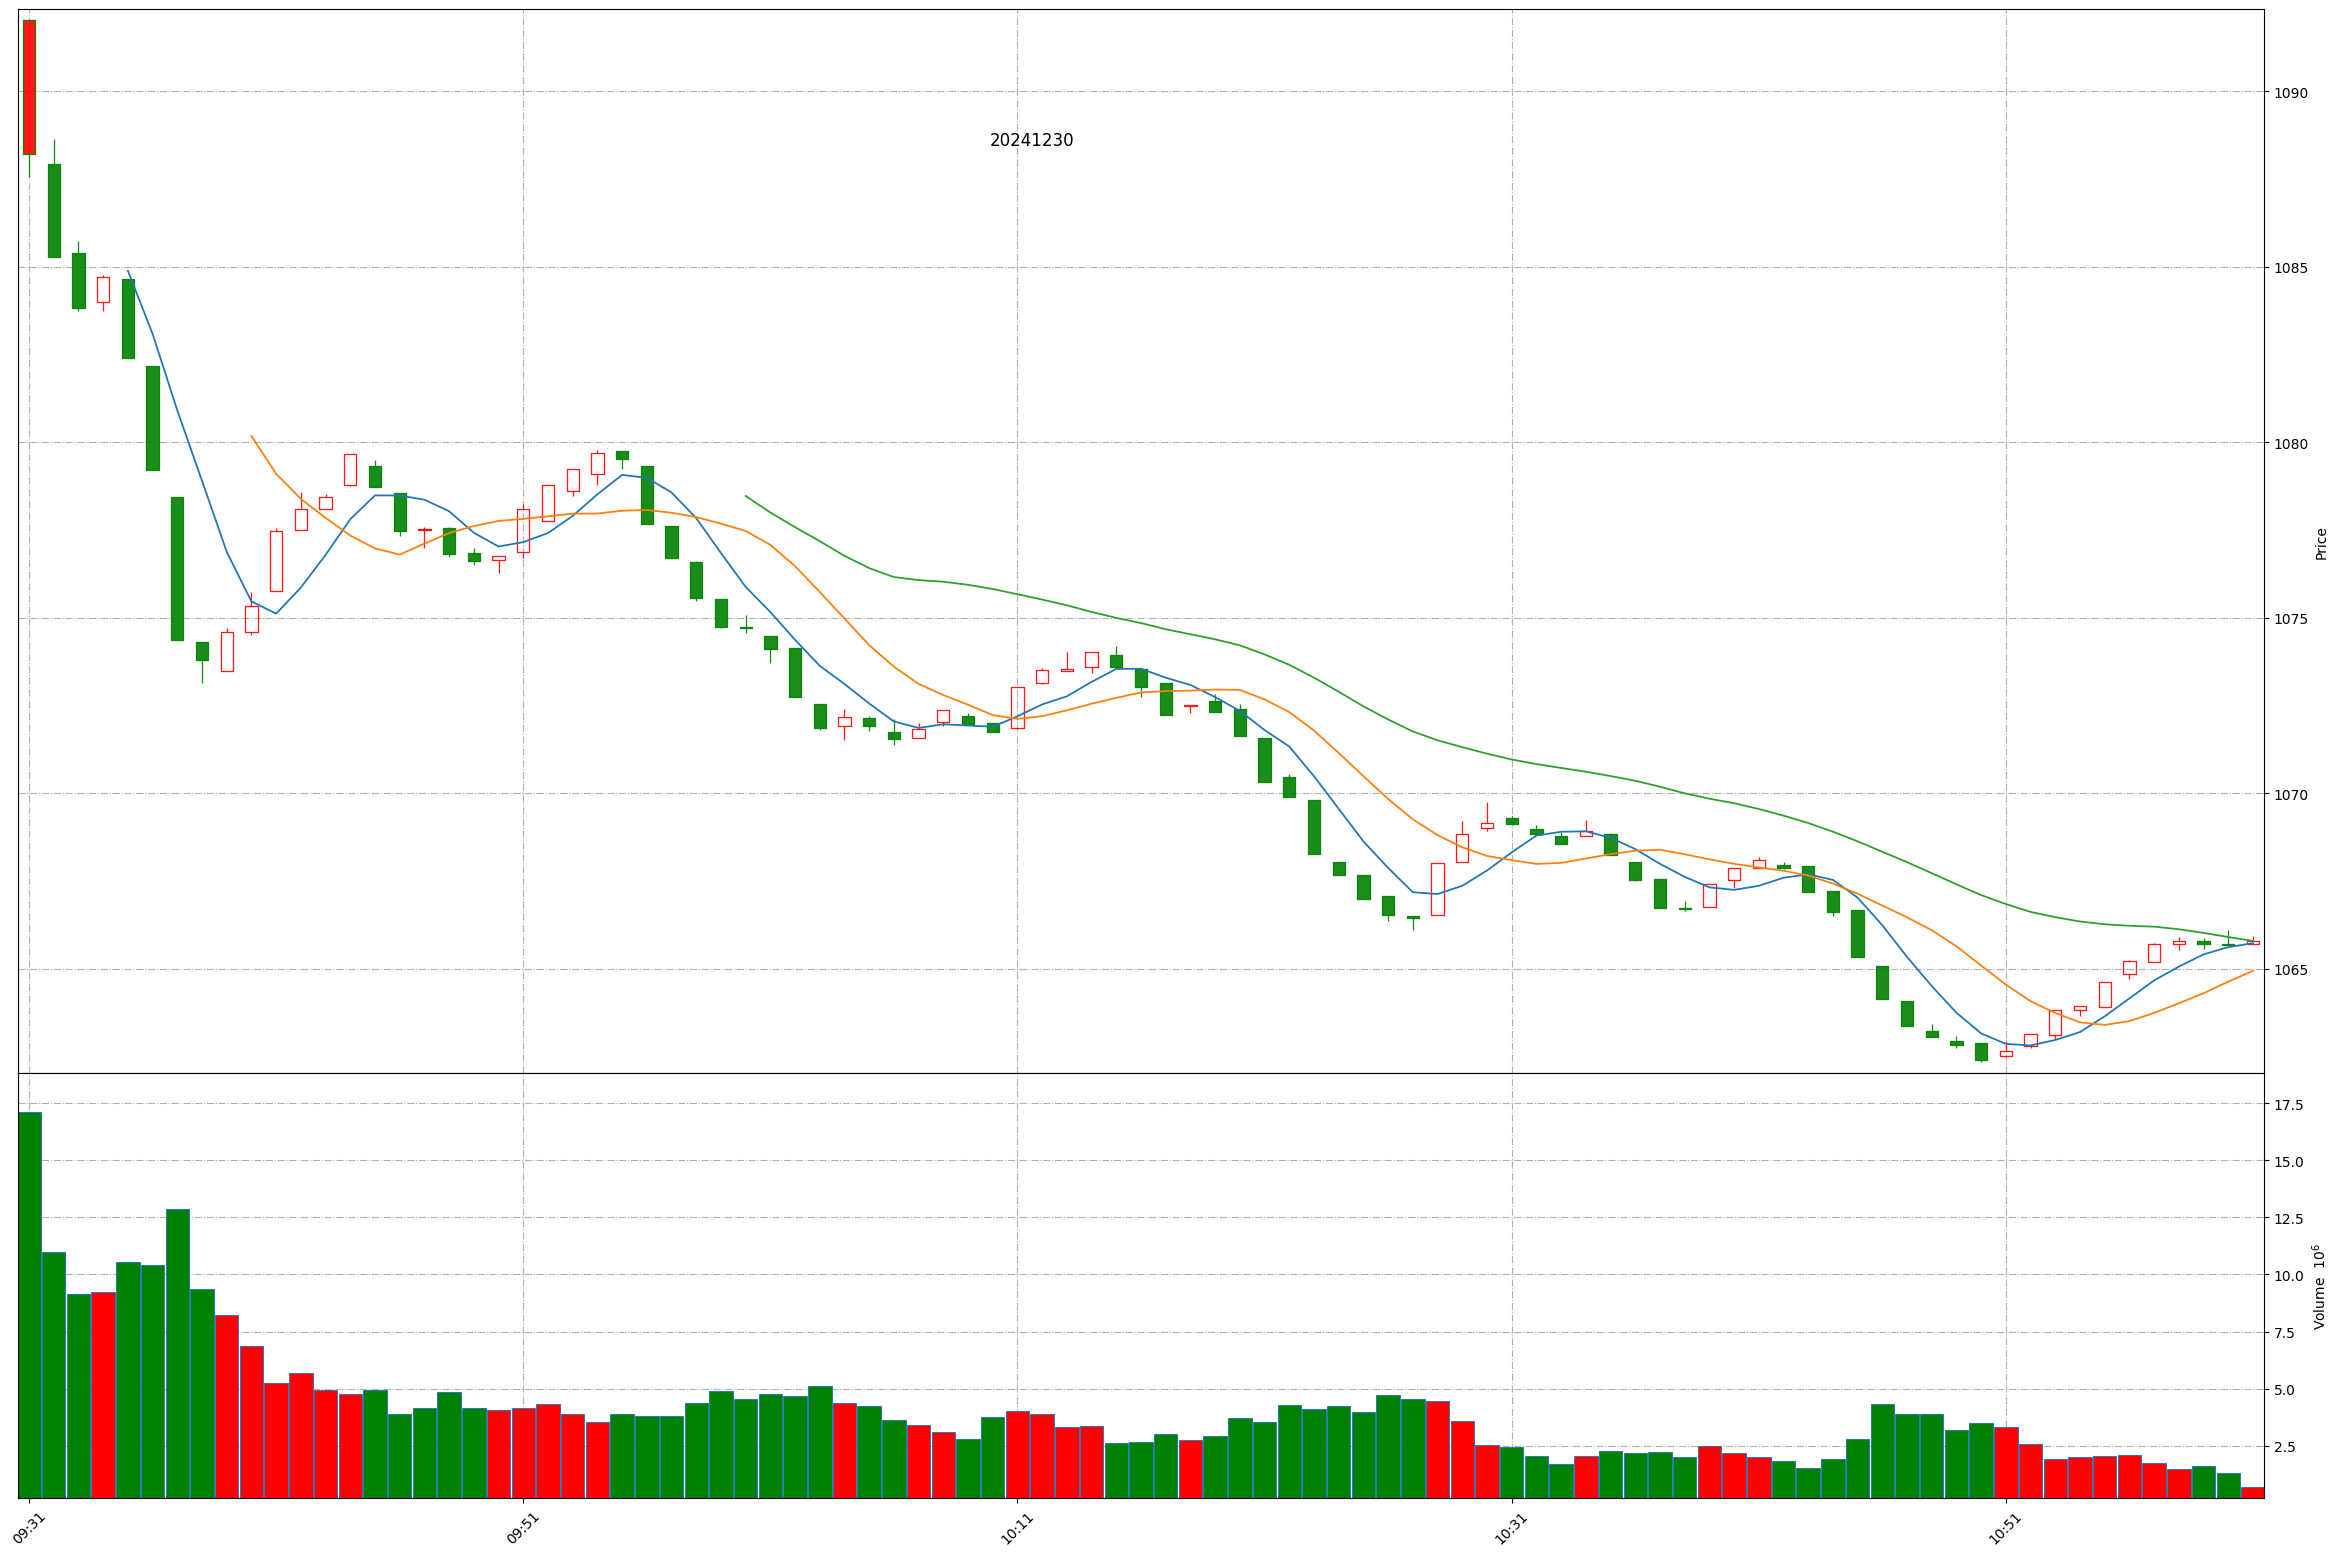
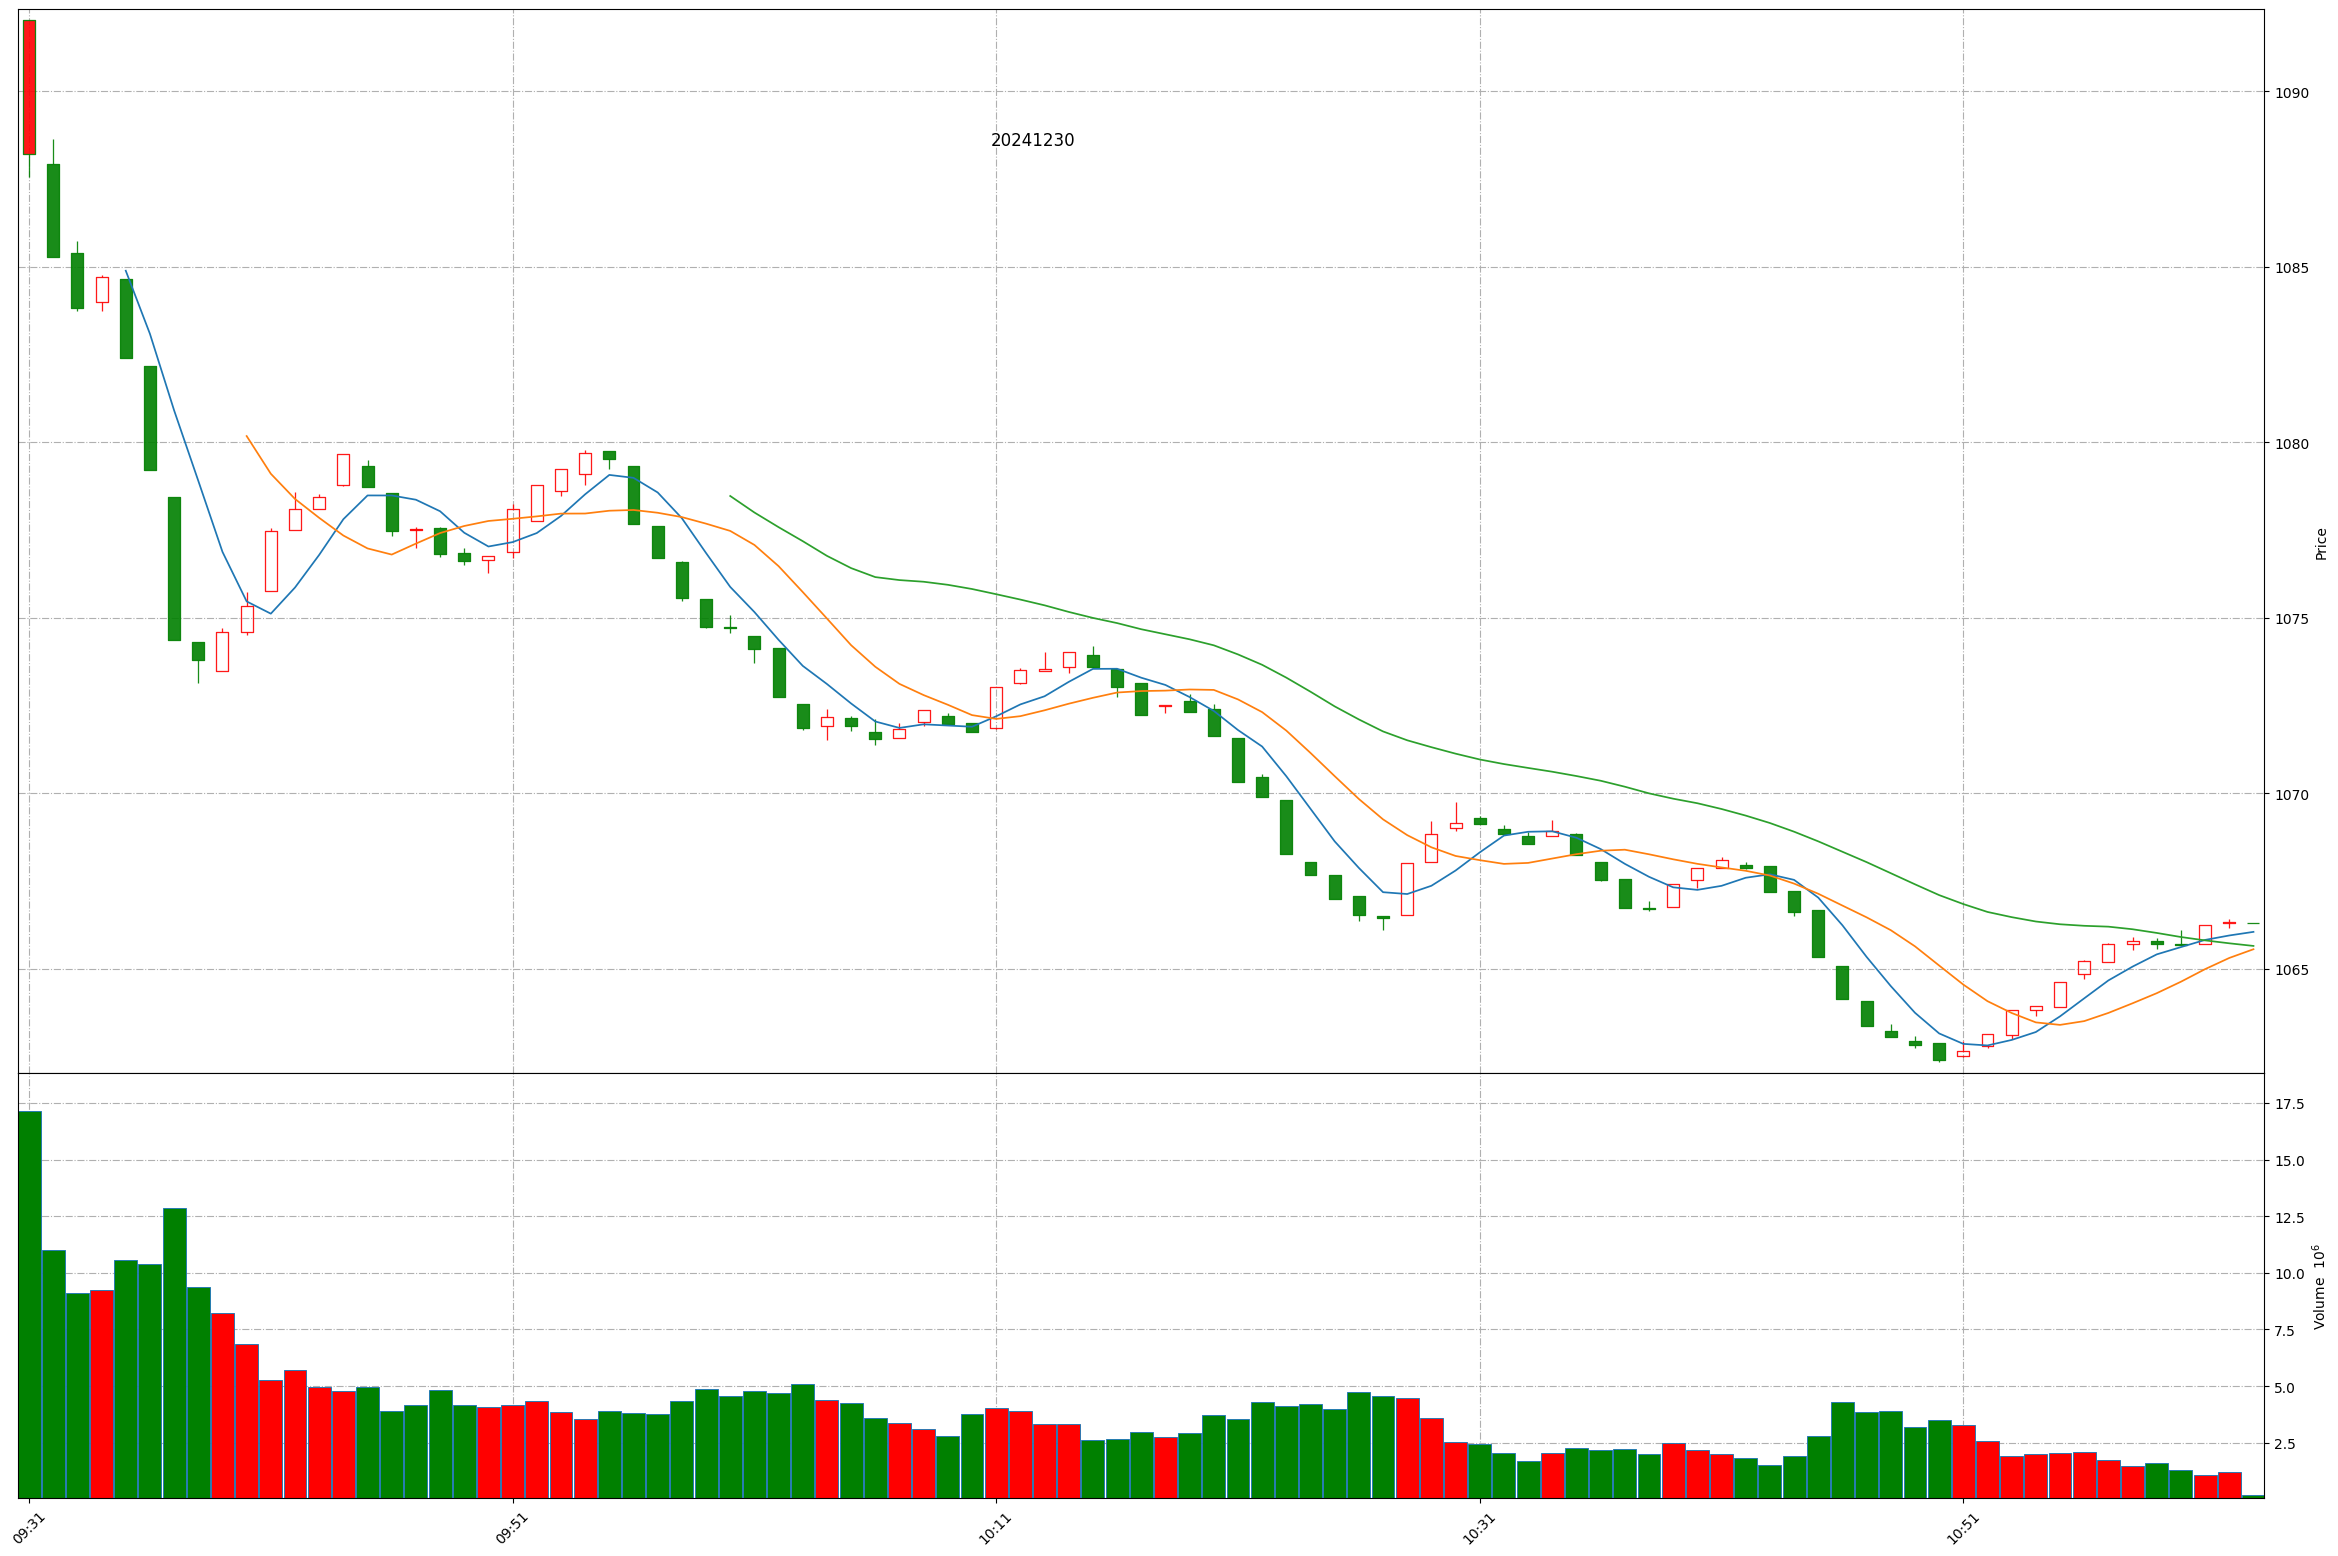
Github action update at 2024-12-30 11:02:18.

diff --git a/README.md b/README.md
@@ -1,11 +1,11 @@
 
 # Daily-A-share-market-quotes 每日 A 股指数（5min 更新）- 20241230
 
-### 上证指数 20241230 11:0
+### 上证指数 20241230 11:2
 ![](./fig/2024/12/20241230-sh000001.png)
 
-### 深证成指 20241230 11:0
+### 深证成指 20241230 11:2
 ![](./fig/2024/12/20241230-sz399001.png)
 
-### 北证50 20241230 11:0
+### 北证50 20241230 11:2
 ![](./fig/2024/12/20241230-bj899050.png)
